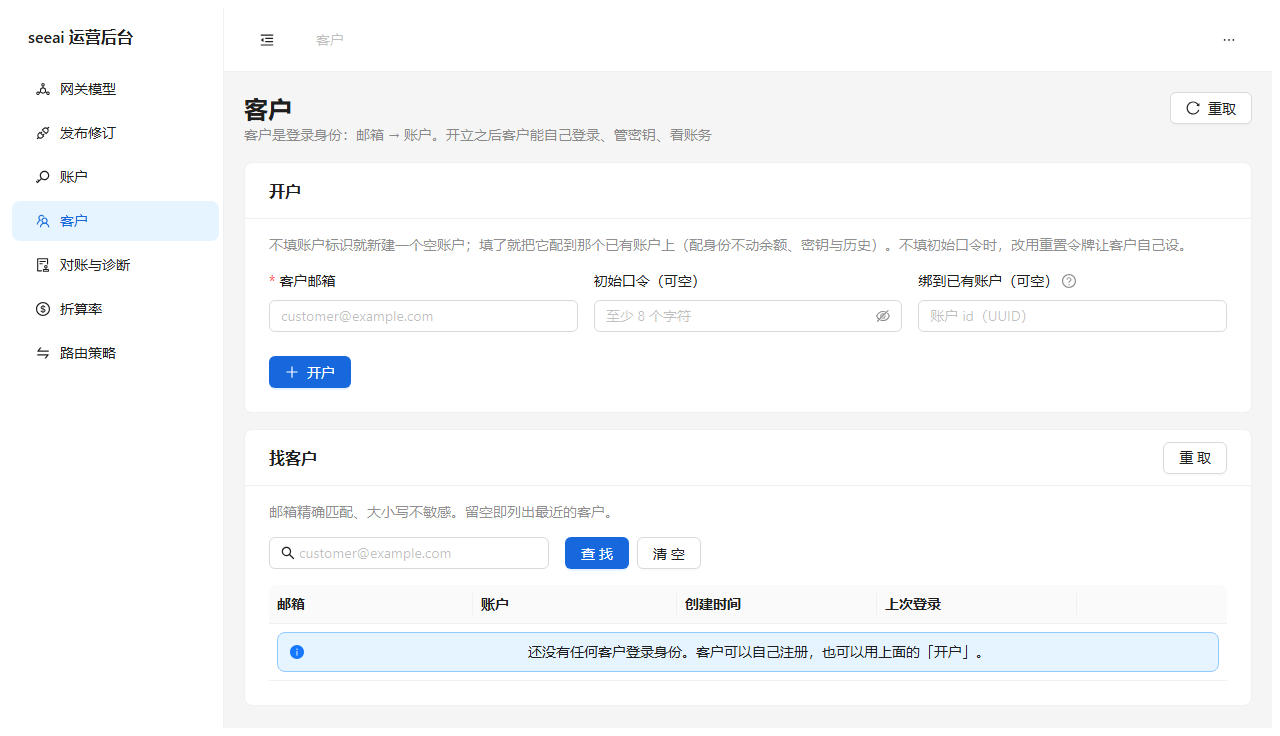
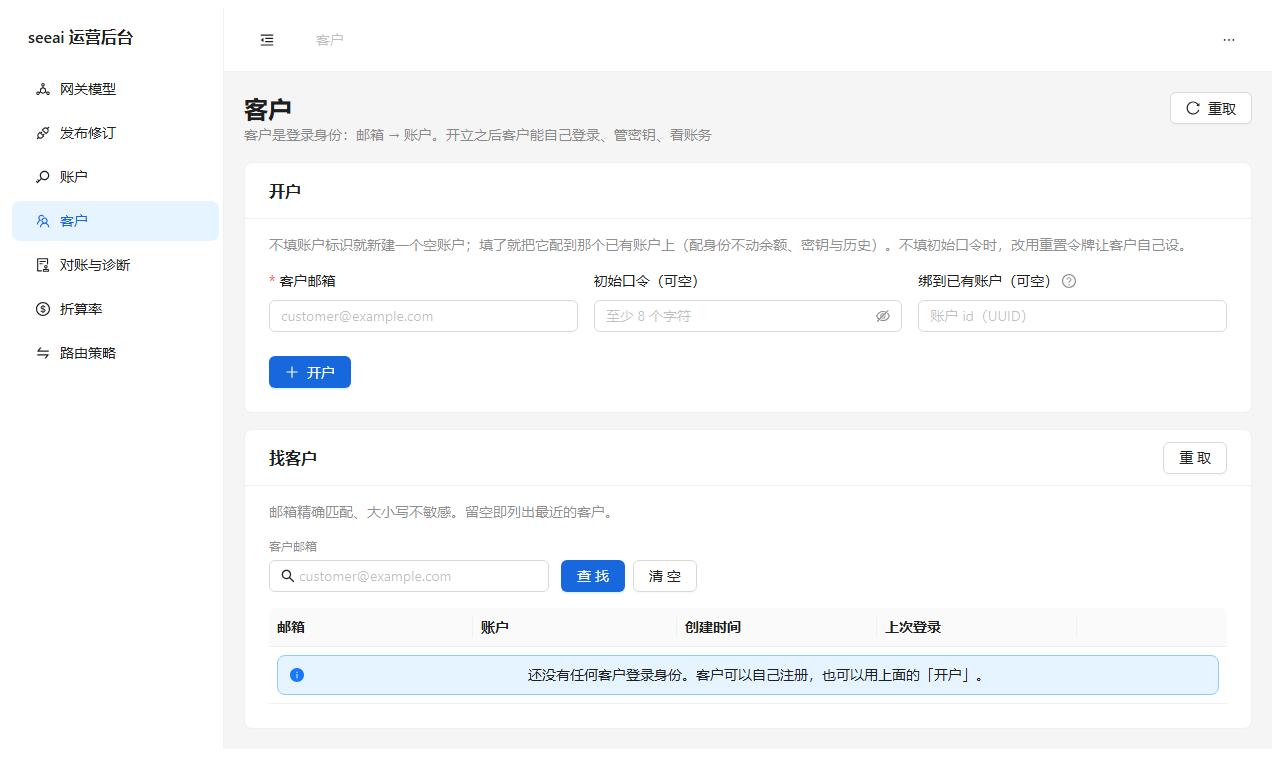
feat(admin): 补客户页的验收证据（V-D11），并修掉客户页搜索点了不触发
`docs/specs/0001` 的 V-D11（替客户开户不需要先抄账户标识）此前**零证据**——没有任何用例碰过客户页。
新增 `admin-opens-a-customer`：开户（邮箱 + 初始口令，不填账户标识）→ 按邮箱搜到它 → 签发重置令牌
→ **客户拿这枚令牌在客户端设新口令并用它登录**。最后一步是关键：只看"令牌显示出来了"不能证明它可用。

## 顺带修掉一个与账户页同源的缺陷

客户页的"查找"也是 antd 的 `Form` + `onFinish`，点按钮不触发提交（实测挂住 60 秒，且输入框没有
`Form.Item` 包着，值本来也收不到）。换成普通 state + 一个按钮，与账户页同一套写法。

**这是同一类错误犯了两次**：两页都把"一个输入框 + 一个动作"做成了受控表单。这两处不需要校验也不
需要字段托管，普通状态更直接。

## 验证

`npx playwright test` **17 passed，连跑两次都绿**；`npx tsc --noEmit` 通过；`npm run build` 通过且
产物隔离核对通过。

diff --git a/apps/web/src/console/pages/Customers.tsx b/apps/web/src/console/pages/Customers.tsx
@@ -29,6 +29,7 @@ import { ConsolePage, Panel, whenText } from '../ui';
 /// 口径见 `docs/design/0011-console-information-architecture.md` §1.2 与 §3.3。
 export function CustomersPage({ client }: { client: AdminClient }) {
   const { message } = AntApp.useApp();
+  const [searchEmail, setSearchEmail] = useState('');
   const [filter, setFilter] = useState<{ email?: string }>({});
   const [selected, setSelected] = useState<CustomerView | null>(null);
   const [opening, setOpening] = useState(false);
@@ -150,29 +151,42 @@ export function CustomersPage({ client }: { client: AdminClient }) {
         description="邮箱精确匹配、大小写不敏感。留空即列出最近的客户。"
         extra={<Button onClick={customers.reload}>重取</Button>}
       >
-        <Form
-          layout="inline"
-          style={{ marginBottom: 16 }}
-          onFinish={(values: { email?: string }) => setFilter({ email: values.email })}
-        >
-          <Form.Item name="email">
+        {/* 与账户页同一套写法：普通 state + 一个按钮。这一处只需要"一个输入框 + 一个动作"，
+            取点击那一刻的值，不需要校验也不需要受控字段。 */}
+        <Flex gap={12} wrap align="flex-end" style={{ marginBottom: 16 }}>
+          <Flex vertical gap={4}>
+            <Typography.Text type="secondary" style={{ fontSize: 12 }}>
+              客户邮箱
+            </Typography.Text>
             <Input
               data-testid="customers-search-email"
               prefix={<SearchOutlined />}
               placeholder="customer@example.com"
+              value={searchEmail}
+              onChange={(event) => setSearchEmail(event.target.value)}
+              onPressEnter={() => setFilter({ email: searchEmail })}
               style={{ width: 280 }}
               allowClear
             />
-          </Form.Item>
-          <Form.Item>
-            <Space>
-              <Button type="primary" htmlType="submit">
-                查找
-              </Button>
-              <Button onClick={() => setFilter({})}>清空</Button>
-            </Space>
-          </Form.Item>
-        </Form>
+          </Flex>
+          <Space>
+            <Button
+              data-testid="customers-search-submit"
+              type="primary"
+              onClick={() => setFilter({ email: searchEmail })}
+            >
+              查找
+            </Button>
+            <Button
+              onClick={() => {
+                setSearchEmail('');
+                setFilter({});
+              }}
+            >
+              清空
+            </Button>
+          </Space>
+        </Flex>
 
         <Table<CustomerView>
           size="small"
@@ -221,7 +235,11 @@ export function CustomersPage({ client }: { client: AdminClient }) {
               width: 150,
               render: (_value: unknown, customer: CustomerView) => (
                 <Space>
-                  <Button size="small" onClick={() => setSelected(customer)}>
+                  <Button
+                    data-testid="customers-open-detail"
+                    size="small"
+                    onClick={() => setSelected(customer)}
+                  >
                     详情
                   </Button>
                 </Space>

diff --git a/apps/web/e2e/admin-opens-a-customer.spec.ts b/apps/web/e2e/admin-opens-a-customer.spec.ts
@@ -1,0 +1,57 @@
+import { expect, test } from '@playwright/test';
+import { consoleUrl, portalUrl, settings } from './settings';
+
+/// **替客户开户不需要先抄账户标识**（Spec V-D11）。
+///
+/// 运营在客户区用一个邮箱开户（新建账户），随后能在同一处为该客户签发重置令牌。这条全程不碰账户
+/// 标识：邮箱是入口，令牌是出口。
+///
+/// 为什么只有浏览器才验得出来：判据说的是"界面上不需要抄标识"，那是流程事实。接口层的能力由
+/// `cases_identity` 与 `cases_admin_surface` 覆盖，这里验的是运营实际操作的路径。
+test('开户并签发重置令牌，客户能用它设新口令', async ({ page }) => {
+  const email = `open-${Date.now()}@example.com`;
+  const initial = 'a-long-enough-password';
+  const reset = 'a-long-enough-password-reset';
+
+  await page.goto(consoleUrl);
+  await page.getByTestId('admin-email').fill(settings.adminEmail);
+  await page.getByTestId('admin-password').fill(settings.adminPassword);
+  await page.getByTestId('admin-sign-in').click();
+  await page.locator('.ant-layout-sider').getByRole('menuitem', { name: '客户' }).click();
+
+  // **开户**：邮箱 + 初始口令，不填账户标识（留空即新建一个空账户）。
+  await page.getByTestId('customers-open-email').fill(email);
+  await page.getByTestId('customers-open-password').fill(initial);
+  await page.getByTestId('customers-open-submit').click();
+
+  // 列表里查得到（邮箱精确匹配）——开户即选中这个客户，详情卡片的标题带邮箱。
+  await page.getByTestId('customers-search-email').fill(email);
+  await page.getByTestId('customers-search-submit').click();
+  await expect(page.locator('.ant-table-tbody').getByRole('row')).toHaveCount(1);
+
+  const detail = page.locator('.ant-card').filter({ hasText: `客户 ${email}` });
+  await expect(detail).toBeVisible();
+  await expect(detail.getByText('账户', { exact: true })).toBeVisible();
+
+  // **签发重置令牌**：明文只显示这一次。
+  await page.getByTestId('customers-issue-reset').click();
+  const tokenText = page.getByTestId('customers-reset-token');
+  await expect(tokenText).toBeVisible();
+  const token = (await tokenText.textContent())?.trim() ?? '';
+  expect(token.length).toBeGreaterThan(20);
+  // 界面上写明它只活一次、平台不发邮件——运营要当场转交。
+  await expect(page.getByText('只显示这一次，当场转交客户')).toBeVisible();
+
+  // **令牌真的能用**：客户凭它在客户端设新口令，然后用新口令登录。
+  await page.goto(portalUrl);
+  await page.getByTestId('portal-reset-token').fill(token);
+  await page.getByTestId('portal-reset-password').fill(reset);
+  await page.getByTestId('portal-reset-submit').click();
+  await expect(page.getByText('口令已重置').first()).toBeVisible();
+
+  await page.getByTestId('portal-email').fill(email);
+  await page.getByTestId('portal-password').fill(reset);
+  await page.getByTestId('portal-submit').click();
+  // 进了控制台：首屏那三个统计数在。
+  await expect(page.locator('.ant-statistic').first()).toBeVisible();
+});
